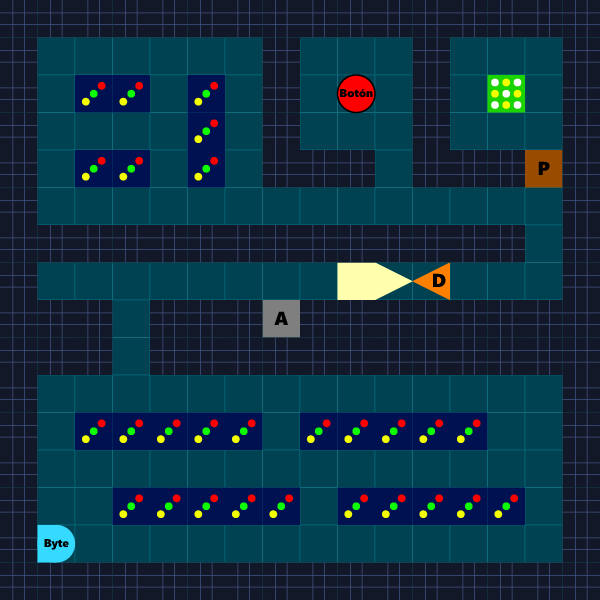
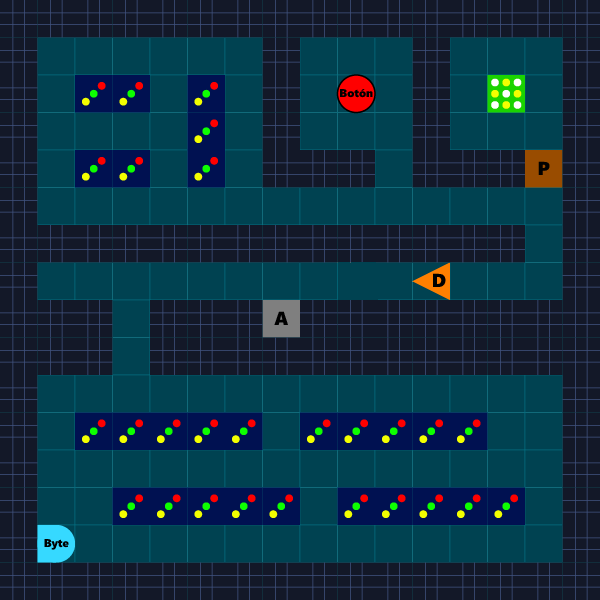
readme update

Changed region(s): [[0.54, 0.42, 0.69, 0.51]]

diff --git a/README.md b/README.md
@@ -23,9 +23,9 @@ El sigilo no es más que una asimetría de información, en donde el jugador ve 
 
 * **Estado de Alarma:** El entorno es hostil. Ahora, los enemigos persiguen de forma activa al infiltrado detectado por alguno de ellos.
 
-* **Estado de Reinicio:**: Es un entorno inducido por la utilización del [ítem PEM del inventario de *ByteMan*](#32-el-inventario). En él, se paraliza el patrullaje o persecución de los enemigos por un lapso de 5 segundos, dejándolos "congelados" y "fuera de servicio" en la grilla.
+* **Estado de Reinicio:**: Es un entorno en el que se paraliza el patrullaje o persecución de los enemigos por un lapso de 5 segundos, dejándolos "congelados" y "fuera de servicio" en la grilla.
 
-### 3. *ByteMan* y su inventario
+### 3. *ByteMan*
 
 > Avatar preliminar para representar a *ByteMan*
 
@@ -33,28 +33,7 @@ El sigilo no es más que una asimetría de información, en donde el jugador ve 
 
 El personaje principal se mueve de a una celda a la vez utilizando las flechas direccionales.
 
-#### 3.2. El inventario
-
-El inventario de *ByteMan* son objetos consumibles que sirven como armas o defensas a la hora de enfrentarse a sus enemigos.
-
-* ##### **Pulso Electromagnético (PEM)** 
-
-    ![PEM](./assets/pem.png "Pulso Electromagnético") 
-        
-    Es defensivo y de un solo uso. Cambia el estado del entorno temporalmente al Estado de Reinicio. Sirve para escapar o esconderse para no ser detectado o atrapado.
-
-
-* ##### **Virus Troyano** 
-
-    ![Virus Troyano](./assets/virus.png "Virus Troyano") 
-
-    Es ofensivo y de un solo uso. Si *ByteMan* lo usa al lado de algún/nos enemigos, estos mueren.
-
 ### 4. El sistema de seguridad Argus
-
-> Avatares preliminares para representar a los enemigos de *ByteMan* y sus campos de visión
-
-![Dron](./assets/readme/dron-vision.png "Dron con su campo de visión") ![Cámara](./assets/readme/camara-vision.png "Cámara con su campo de visión") ![Sabueso](./assets/readme/sabueso-vision.png "Sabueso con su campo de visión")
 
 Es un sistema automatizado que resguarda la seguridad de "NexCorp". Su principal función es patrullar las instalaciones de la empresa y, de ser necesario, perseguir y atrapar a cualquier infiltrado en ellas.
 
